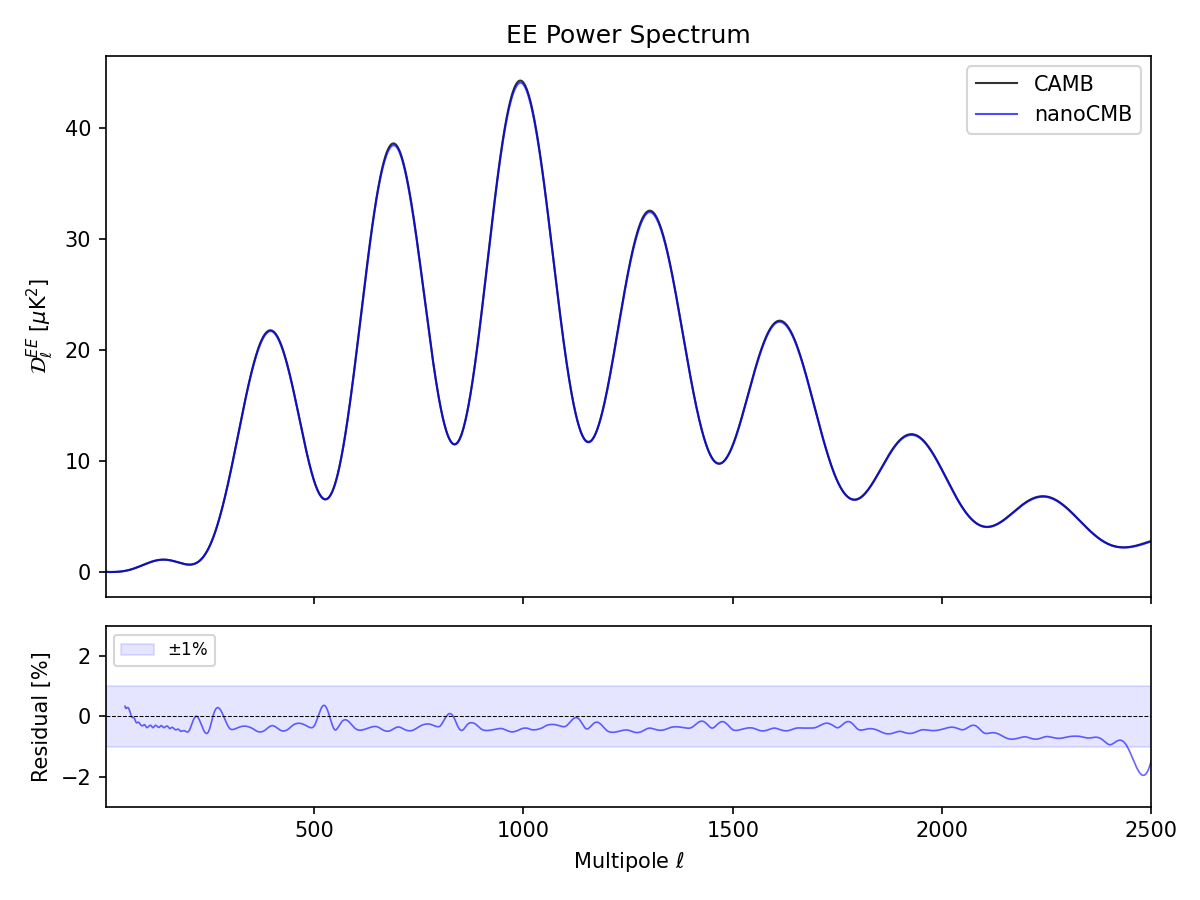
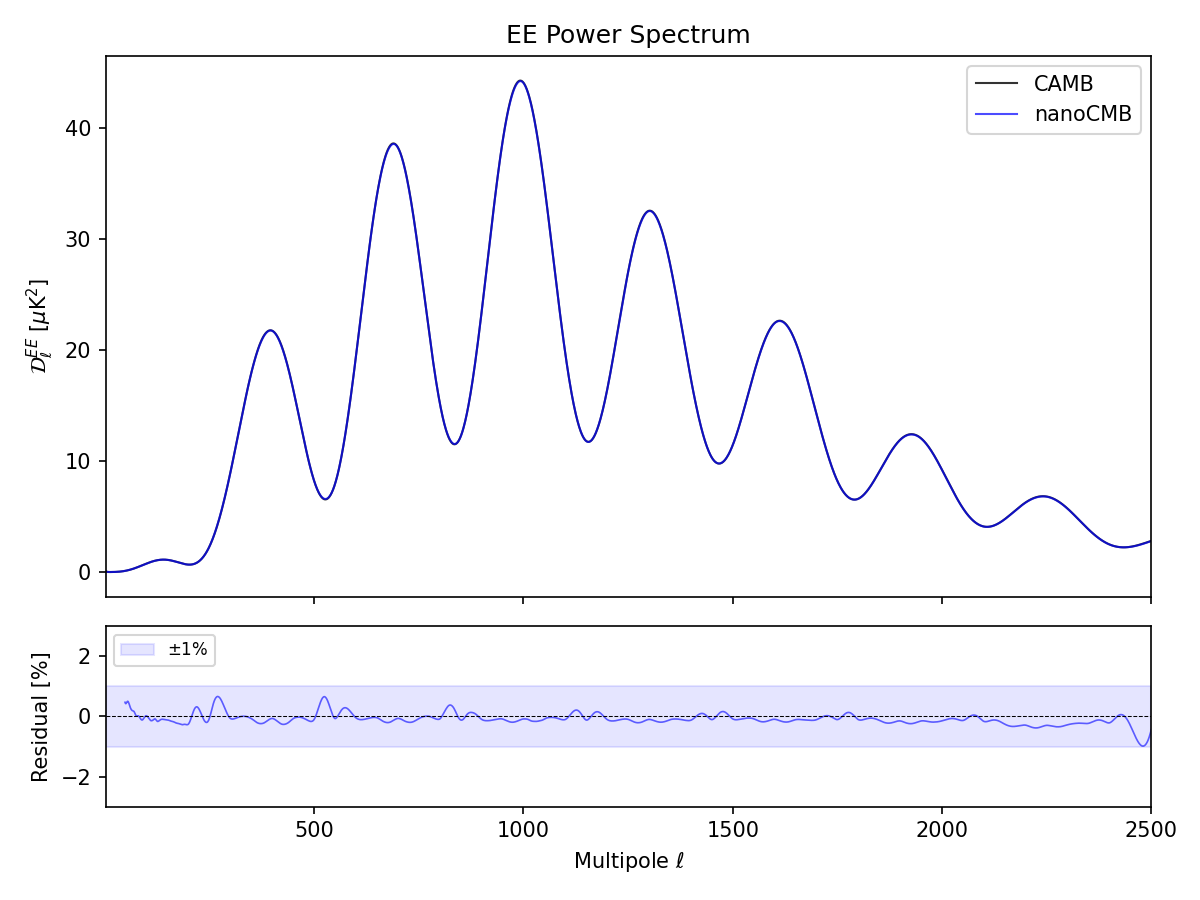
Akima interpolation

diff --git a/nanocmb.py b/nanocmb.py
@@ -1104,10 +1104,10 @@ def compute_cls(bg, thermo, params):
     src_fine_j2 = np.zeros((nk_fine, ntau))
     src_fine_E = np.zeros((nk_fine, ntau))
     for it in range(ntau):
-        src_fine_j0[:, it] = np.interp(lnk_fine, lnk_ode, sources_j0[:, it])
-        src_fine_j1[:, it] = np.interp(lnk_fine, lnk_ode, sources_j1[:, it])
-        src_fine_j2[:, it] = np.interp(lnk_fine, lnk_ode, sources_j2[:, it])
-        src_fine_E[:, it] = np.interp(lnk_fine, lnk_ode, sources_E[:, it])
+        src_fine_j0[:, it] = interpolate.Akima1DInterpolator(lnk_ode, sources_j0[:, it])(lnk_fine)
+        src_fine_j1[:, it] = interpolate.Akima1DInterpolator(lnk_ode, sources_j1[:, it])(lnk_fine)
+        src_fine_j2[:, it] = interpolate.Akima1DInterpolator(lnk_ode, sources_j2[:, it])(lnk_fine)
+        src_fine_E[:, it] = interpolate.Akima1DInterpolator(lnk_ode, sources_E[:, it])(lnk_fine)
     print(f"Interpolated sources: {nk} → {nk_fine} k-modes")
 
     # --- Line-of-sight integration with precomputed Bessel tables ---

diff --git a/README.md b/README.md
@@ -39,10 +39,10 @@ Validated against CAMB (AccuracyBoost=3) with Planck 2018 best-fit parameters:
 
 | l range | TT (mean ratio) | TT (std) | EE (mean ratio) | EE (std) |
 |---------|:---:|:---:|:---:|:---:|
-| 2-30 | 0.998 | 0.1% | 0.980 | 3.5% |
-| 30-500 | 0.998 | 0.1% | 0.997 | 0.3% |
-| 500-2000 | 0.998 | 0.1% | 0.996 | 0.1% |
-| 2000-2500 | 0.994 | 0.2% | 0.992 | 0.4% |
+| 2-30 | 0.999 | 0.1% | 0.997 | 1.8% |
+| 30-500 | 1.000 | 0.1% | 1.000 | 0.3% |
+| 500-2000 | 1.001 | 0.1% | 0.999 | 0.1% |
+| 2000-2500 | 1.000 | 0.0% | 0.998 | 0.2% |
 
 ## What's inside
 
